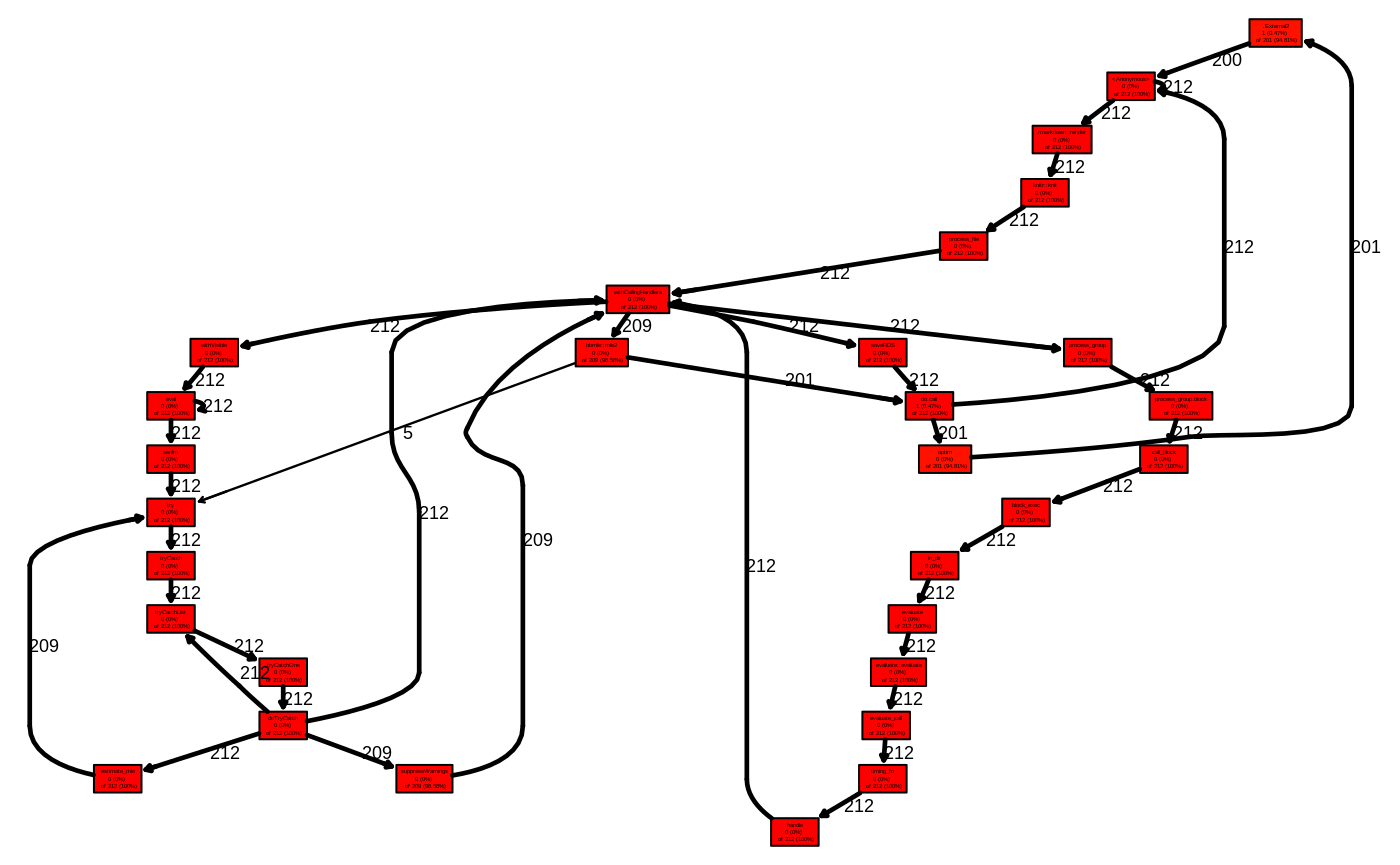
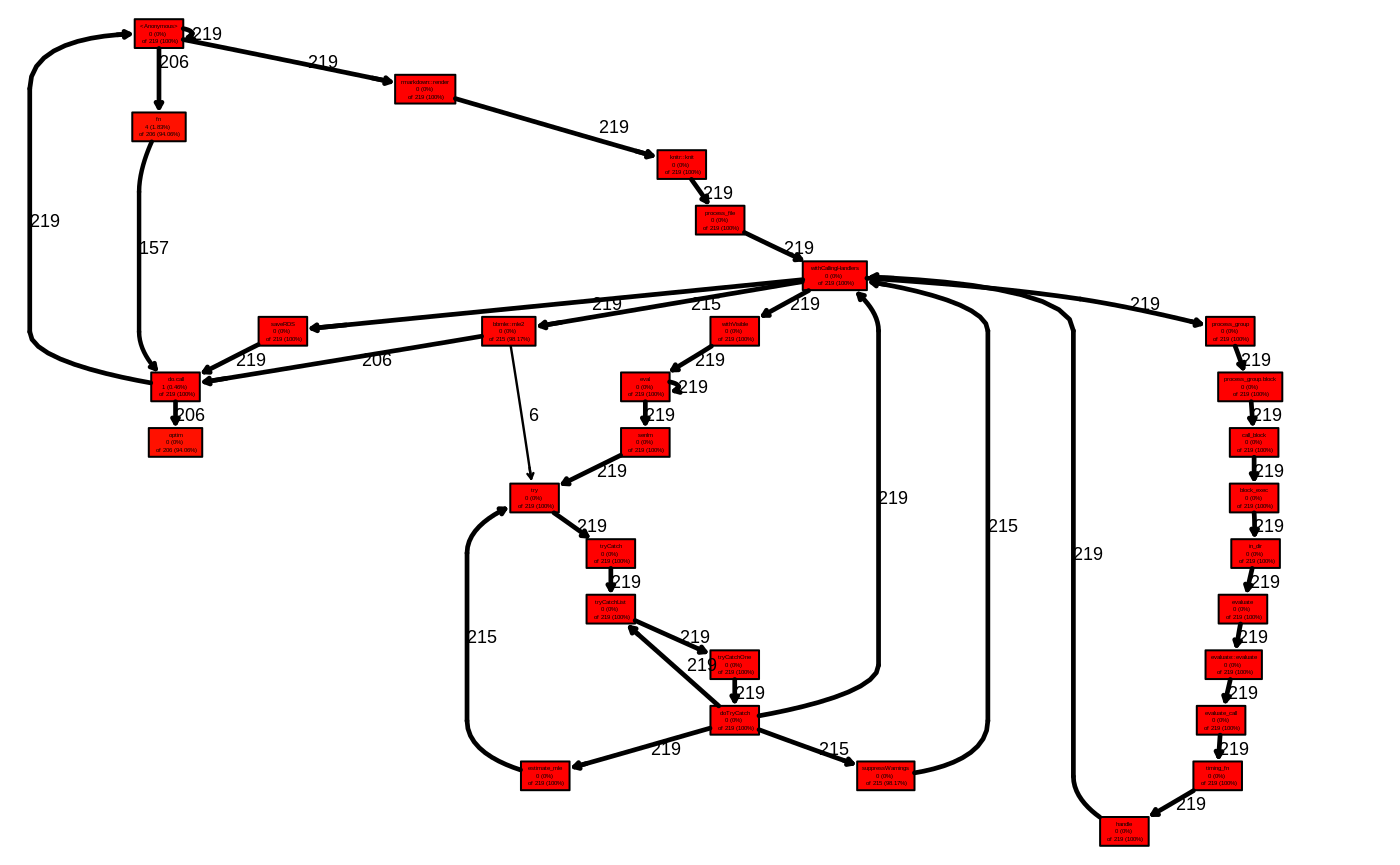
Built site for senlm: 0.1@8959eca

diff --git a/articles/performance_analysis.html b/articles/performance_analysis.html
@@ -140,64 +140,59 @@
 <a class="sourceLine" id="cb2-4" data-line-number="4">## --- Summarise the Profiling Data --- #</a>
 <a class="sourceLine" id="cb2-5" data-line-number="5"><span class="kw"><a href="https://rdrr.io/pkg/proftools/man/summaries.html">pathSummary</a></span>(pd)</a>
 <a class="sourceLine" id="cb2-6" data-line-number="6"><span class="co">#&gt;                                                    total.pct</span></a>
-<a class="sourceLine" id="cb2-7" data-line-number="7"><span class="co">#&gt; ...  fn -&gt; do.call -&gt; minuslogl -&gt; NLL.discrete        26.42</span></a>
-<a class="sourceLine" id="cb2-8" data-line-number="8"><span class="co">#&gt; ...  NLL.discrete -&gt; do.call -&gt; mu_gaussian             8.96</span></a>
-<a class="sourceLine" id="cb2-9" data-line-number="9"><span class="co">#&gt; ...  minuslogl -&gt; NLL.discrete -&gt; make_bounded          7.55</span></a>
-<a class="sourceLine" id="cb2-10" data-line-number="10"><span class="co">#&gt; ...  check_par_valid -&gt; make_bounded                    7.55</span></a>
-<a class="sourceLine" id="cb2-11" data-line-number="11"><span class="co">#&gt; ...  NLL.discrete -&gt; NLL.negbin -&gt; lfactorial           5.66</span></a>
-<a class="sourceLine" id="cb2-12" data-line-number="12"><span class="co">#&gt; ...  optim -&gt; .External2 -&gt; &lt;Anonymous&gt; -&gt; fn           4.72</span></a>
-<a class="sourceLine" id="cb2-13" data-line-number="13"><span class="co">#&gt; ...  minuslogl -&gt; NLL.discrete -&gt; NLL.negbin            4.72</span></a>
-<a class="sourceLine" id="cb2-14" data-line-number="14"><span class="co">#&gt; ...  minuslogl -&gt; NLL.discrete -&gt; check_par_valid       3.30</span></a>
-<a class="sourceLine" id="cb2-15" data-line-number="15"><span class="co">#&gt; ...  relist2 -&gt; sapply -&gt; simplify2array -&gt; unique      2.36</span></a>
-<a class="sourceLine" id="cb2-16" data-line-number="16"><span class="co">#&gt; ...  fn -&gt; do.call -&gt; namedrop -&gt; seq                   2.36</span></a>
-<a class="sourceLine" id="cb2-17" data-line-number="17"><span class="co">#&gt; ...  do.call -&gt; mu_gaussian -&gt; as.list                  2.36</span></a>
-<a class="sourceLine" id="cb2-18" data-line-number="18"><span class="co">#&gt; ...  .External2 -&gt; &lt;Anonymous&gt; -&gt; fn -&gt; relist2         1.89</span></a>
-<a class="sourceLine" id="cb2-19" data-line-number="19"><span class="co">#&gt; ...  .External2 -&gt; &lt;Anonymous&gt; -&gt; fn -&gt; order           1.89</span></a>
-<a class="sourceLine" id="cb2-20" data-line-number="20"><span class="co">#&gt; ...  NLL.discrete -&gt; check_par_valid -&gt; $               1.42</span></a>
-<a class="sourceLine" id="cb2-21" data-line-number="21"><span class="co">#&gt; ...  minuslogl -&gt; NLL.discrete -&gt; do.call -&gt; paste      1.42</span></a>
-<a class="sourceLine" id="cb2-22" data-line-number="22"><span class="co">#&gt; ...  NLL.discrete -&gt; NLL.negbin -&gt; sum                  0.94</span></a>
-<a class="sourceLine" id="cb2-23" data-line-number="23"><span class="co">#&gt; ...  fn -&gt; do.call -&gt; namedrop -&gt; unique                0.94</span></a>
-<a class="sourceLine" id="cb2-24" data-line-number="24"><span class="co">#&gt; ...  &lt;Anonymous&gt; -&gt; fn -&gt; do.call -&gt; namedrop           0.94</span></a>
-<a class="sourceLine" id="cb2-25" data-line-number="25"><span class="co">#&gt; ...  unique -&gt; unique.default -&gt; is.factor              0.47</span></a>
-<a class="sourceLine" id="cb2-26" data-line-number="26"><span class="co">#&gt; ...  simplify2array -&gt; unique -&gt; unique.default         0.47</span></a>
-<a class="sourceLine" id="cb2-27" data-line-number="27"><span class="co">#&gt; ...  sapply -&gt; simplify2array -&gt; unique -&gt; lengths      0.47</span></a>
-<a class="sourceLine" id="cb2-28" data-line-number="28"><span class="co">#&gt; ...  relist2 -&gt; sapply -&gt; match.fun -&gt; is.function      0.47</span></a>
-<a class="sourceLine" id="cb2-29" data-line-number="29"><span class="co">#&gt; ...  objective -&gt; relist2 -&gt; sapply -&gt; lapply           0.47</span></a>
-<a class="sourceLine" id="cb2-30" data-line-number="30"><span class="co">#&gt; ...  NLL.discrete -&gt; check_par_valid -&gt; is.nan          0.47</span></a>
-<a class="sourceLine" id="cb2-31" data-line-number="31"><span class="co">#&gt; ...  namedrop -&gt; unique -&gt; unique.default               0.47</span></a>
-<a class="sourceLine" id="cb2-32" data-line-number="32"><span class="co">#&gt; ...  mu_gaussian -&gt; as.list -&gt; as.list.default          0.47</span></a>
-<a class="sourceLine" id="cb2-33" data-line-number="33"><span class="co">#&gt; ...  minuslogl -&gt; NLL.discrete -&gt; do.call               0.47</span></a>
-<a class="sourceLine" id="cb2-34" data-line-number="34"><span class="co">#&gt; ...  getNamespaceExports -&gt; names                       0.47</span></a>
-<a class="sourceLine" id="cb2-35" data-line-number="35"><span class="co">#&gt; ...  func -&gt; relist2 -&gt; sapply -&gt; lapply                0.47</span></a>
-<a class="sourceLine" id="cb2-36" data-line-number="36"><span class="co">#&gt; ...  func -&gt; do.call -&gt; minuslogl -&gt; NLL.discrete       0.47</span></a>
-<a class="sourceLine" id="cb2-37" data-line-number="37"><span class="co">#&gt; ...  fn -&gt; relist2 -&gt; sapply -&gt; simplify2array          0.47</span></a>
-<a class="sourceLine" id="cb2-38" data-line-number="38"><span class="co">#&gt; ...  fn -&gt; relist2 -&gt; sapply -&gt; lapply                  0.47</span></a>
-<a class="sourceLine" id="cb2-39" data-line-number="39"><span class="co">#&gt; ...  fn -&gt; relist2 -&gt; sapply -&gt; isFALSE -&gt; length       0.47</span></a>
-<a class="sourceLine" id="cb2-40" data-line-number="40"><span class="co">#&gt; ...  fn -&gt; relist2 -&gt; sapply -&gt; isFALSE                 0.47</span></a>
-<a class="sourceLine" id="cb2-41" data-line-number="41"><span class="co">#&gt; ...  fn -&gt; namedrop -&gt; seq -&gt; seq.default               0.47</span></a>
-<a class="sourceLine" id="cb2-42" data-line-number="42"><span class="co">#&gt; ...  do.call -&gt; namedrop -&gt; seq -&gt; seq.default          0.47</span></a>
-<a class="sourceLine" id="cb2-43" data-line-number="43"><span class="co">#&gt; ...  do.call -&gt; minuslogl -&gt; NLL.discrete -&gt; sum        0.47</span></a>
-<a class="sourceLine" id="cb2-44" data-line-number="44"><span class="co">#&gt; ...  do.call -&gt; minuslogl -&gt; NLL.discrete -&gt; $          0.47</span></a>
-<a class="sourceLine" id="cb2-45" data-line-number="45"><span class="co">#&gt; ...  bbmle::mle2 -&gt; do.call -&gt; optim -&gt; .External2      0.47</span></a>
-<a class="sourceLine" id="cb2-46" data-line-number="46"><span class="co">#&gt; ...  &lt;Anonymous&gt; -&gt; lazyLoadDBfetch                     0.47</span></a>
-<a class="sourceLine" id="cb2-47" data-line-number="47"><span class="co">#&gt; ...  &lt;Anonymous&gt; -&gt; fn -&gt; relist2 -&gt; sapply             0.47</span></a>
-<a class="sourceLine" id="cb2-48" data-line-number="48"><span class="co">#&gt; ...  &lt;Anonymous&gt; -&gt; fn -&gt; relist2 -&gt; as.list            0.47</span></a>
-<a class="sourceLine" id="cb2-49" data-line-number="49"><span class="co">#&gt; ...  &lt;Anonymous&gt; -&gt; fn -&gt; relist2 -&gt; all                0.47</span></a>
-<a class="sourceLine" id="cb2-50" data-line-number="50"><span class="co">#&gt; ...  &lt;Anonymous&gt; -&gt; fn -&gt; order -&gt; as.logical           0.47</span></a>
-<a class="sourceLine" id="cb2-51" data-line-number="51"><span class="co">#&gt; ...  &lt;Anonymous&gt; -&gt; fn -&gt; do.call -&gt; parent.frame       0.47</span></a>
-<a class="sourceLine" id="cb2-52" data-line-number="52"><span class="co">#&gt; ...  &lt;Anonymous&gt; -&gt; fn -&gt; do.call -&gt; minuslogl          0.47</span></a>
-<a class="sourceLine" id="cb2-53" data-line-number="53"><span class="co">#&gt; ...  .mergeMethodsTable -&gt; environment                  0.47</span></a>
-<a class="sourceLine" id="cb2-54" data-line-number="54"><span class="co">#&gt; ...  .External2 -&gt; &lt;Anonymous&gt; -&gt; fn -&gt; namedrop        0.47</span></a>
-<a class="sourceLine" id="cb2-55" data-line-number="55"><span class="co">#&gt; ...  .External2 -&gt; &lt;Anonymous&gt; -&gt; fn -&gt; list            0.47</span></a>
-<a class="sourceLine" id="cb2-56" data-line-number="56">##funSummary(pd)</a>
-<a class="sourceLine" id="cb2-57" data-line-number="57">##callSummary(pd)</a>
-<a class="sourceLine" id="cb2-58" data-line-number="58">##hotPaths(pd)</a>
-<a class="sourceLine" id="cb2-59" data-line-number="59">##flatProfile(pd)</a>
-<a class="sourceLine" id="cb2-60" data-line-number="60"></a>
-<a class="sourceLine" id="cb2-61" data-line-number="61">## --- Annotate Sourcecode with Profiling Data -- #</a>
-<a class="sourceLine" id="cb2-62" data-line-number="62"><span class="co"># annotateSource is very useful, but won't work within a vignette.</span></a>
-<a class="sourceLine" id="cb2-63" data-line-number="63"><span class="co">#annotateSource(pd, show = TRUE)</span></a>
-<a class="sourceLine" id="cb2-64" data-line-number="64">##srcSummary(pd)</a></code></pre></div>
+<a class="sourceLine" id="cb2-7" data-line-number="7"><span class="co">#&gt; ...  fn -&gt; do.call -&gt; minuslogl -&gt; NLL.discrete        23.29</span></a>
+<a class="sourceLine" id="cb2-8" data-line-number="8"><span class="co">#&gt; ...  check_par_valid -&gt; make_bounded                   10.05</span></a>
+<a class="sourceLine" id="cb2-9" data-line-number="9"><span class="co">#&gt; ...  NLL.discrete -&gt; do.call -&gt; mu_gaussian             9.13</span></a>
+<a class="sourceLine" id="cb2-10" data-line-number="10"><span class="co">#&gt; ...  NLL.discrete -&gt; NLL.negbin -&gt; lfactorial           6.85</span></a>
+<a class="sourceLine" id="cb2-11" data-line-number="11"><span class="co">#&gt; ...  minuslogl -&gt; NLL.discrete -&gt; NLL.negbin            6.85</span></a>
+<a class="sourceLine" id="cb2-12" data-line-number="12"><span class="co">#&gt; ...  minuslogl -&gt; NLL.discrete -&gt; make_bounded          5.02</span></a>
+<a class="sourceLine" id="cb2-13" data-line-number="13"><span class="co">#&gt; ...  fn -&gt; relist2 -&gt; sapply -&gt; lapply                  5.02</span></a>
+<a class="sourceLine" id="cb2-14" data-line-number="14"><span class="co">#&gt; ...  minuslogl -&gt; NLL.discrete -&gt; check_par_valid       3.65</span></a>
+<a class="sourceLine" id="cb2-15" data-line-number="15"><span class="co">#&gt; ...  simplify2array -&gt; unique -&gt; unique.default         2.28</span></a>
+<a class="sourceLine" id="cb2-16" data-line-number="16"><span class="co">#&gt; ...  relist2 -&gt; sapply -&gt; simplify2array -&gt; unlist      2.28</span></a>
+<a class="sourceLine" id="cb2-17" data-line-number="17"><span class="co">#&gt; ...  relist2 -&gt; sapply -&gt; simplify2array -&gt; unique      2.28</span></a>
+<a class="sourceLine" id="cb2-18" data-line-number="18"><span class="co">#&gt; ...  do.call -&gt; mu_gaussian -&gt; as.list                  2.28</span></a>
+<a class="sourceLine" id="cb2-19" data-line-number="19"><span class="co">#&gt; ...  optim -&gt; .External2 -&gt; &lt;Anonymous&gt; -&gt; fn           1.83</span></a>
+<a class="sourceLine" id="cb2-20" data-line-number="20"><span class="co">#&gt; ...  do.call -&gt; minuslogl -&gt; NLL.discrete -&gt; $          1.37</span></a>
+<a class="sourceLine" id="cb2-21" data-line-number="21"><span class="co">#&gt; ...  &lt;Anonymous&gt; -&gt; fn -&gt; namedrop -&gt; seq               1.37</span></a>
+<a class="sourceLine" id="cb2-22" data-line-number="22"><span class="co">#&gt; ...  NLL.discrete -&gt; NLL.negbin -&gt; sum                  0.91</span></a>
+<a class="sourceLine" id="cb2-23" data-line-number="23"><span class="co">#&gt; ...  fn -&gt; relist2 -&gt; sapply -&gt; lapply -&gt; FUN           0.91</span></a>
+<a class="sourceLine" id="cb2-24" data-line-number="24"><span class="co">#&gt; ...  fn -&gt; namedrop -&gt; seq -&gt; seq.default               0.91</span></a>
+<a class="sourceLine" id="cb2-25" data-line-number="25"><span class="co">#&gt; ...  fn -&gt; do.call -&gt; namedrop -&gt; seq                   0.91</span></a>
+<a class="sourceLine" id="cb2-26" data-line-number="26"><span class="co">#&gt; ...  &lt;Anonymous&gt; -&gt; fn -&gt; relist2 -&gt; sapply             0.91</span></a>
+<a class="sourceLine" id="cb2-27" data-line-number="27"><span class="co">#&gt; ...  &lt;Anonymous&gt; -&gt; fn -&gt; do.call -&gt; minuslogl          0.91</span></a>
+<a class="sourceLine" id="cb2-28" data-line-number="28"><span class="co">#&gt; ...  .External2 -&gt; &lt;Anonymous&gt; -&gt; fn -&gt; relist2         0.91</span></a>
+<a class="sourceLine" id="cb2-29" data-line-number="29"><span class="co">#&gt; ...  unique -&gt; unique.default -&gt; is.factor              0.46</span></a>
+<a class="sourceLine" id="cb2-30" data-line-number="30"><span class="co">#&gt; ...  sapply -&gt; simplify2array -&gt; unique -&gt; lengths      0.46</span></a>
+<a class="sourceLine" id="cb2-31" data-line-number="31"><span class="co">#&gt; ...  sapply -&gt; lapply -&gt; FUN -&gt; is.expression           0.46</span></a>
+<a class="sourceLine" id="cb2-32" data-line-number="32"><span class="co">#&gt; ...  optim -&gt; .External2 -&gt; &lt;Anonymous&gt; -&gt; fn -&gt; c      0.46</span></a>
+<a class="sourceLine" id="cb2-33" data-line-number="33"><span class="co">#&gt; ...  NLL.discrete -&gt; check_par_valid -&gt; is.na           0.46</span></a>
+<a class="sourceLine" id="cb2-34" data-line-number="34"><span class="co">#&gt; ...  NLL.discrete -&gt; check_par_valid -&gt; is.finite       0.46</span></a>
+<a class="sourceLine" id="cb2-35" data-line-number="35"><span class="co">#&gt; ...  NLL.discrete -&gt; check_par_valid -&gt; $               0.46</span></a>
+<a class="sourceLine" id="cb2-36" data-line-number="36"><span class="co">#&gt; ...  mu_gaussian -&gt; as.list -&gt; as.list.default          0.46</span></a>
+<a class="sourceLine" id="cb2-37" data-line-number="37"><span class="co">#&gt; ...  minuslogl -&gt; NLL.discrete -&gt; do.call -&gt; paste      0.46</span></a>
+<a class="sourceLine" id="cb2-38" data-line-number="38"><span class="co">#&gt; ...  minuslogl -&gt; NLL.discrete -&gt; do.call               0.46</span></a>
+<a class="sourceLine" id="cb2-39" data-line-number="39"><span class="co">#&gt; ...  lazyLoadDBfetch -&gt; &lt;Anonymous&gt; -&gt; list2env         0.46</span></a>
+<a class="sourceLine" id="cb2-40" data-line-number="40"><span class="co">#&gt; ...  lazyLoad -&gt; lazyLoadDBexec -&gt; list2env             0.46</span></a>
+<a class="sourceLine" id="cb2-41" data-line-number="41"><span class="co">#&gt; ...  implicitGeneric -&gt; makeGeneric -&gt; @&lt;-              0.46</span></a>
+<a class="sourceLine" id="cb2-42" data-line-number="42"><span class="co">#&gt; ...  getNamespace -&gt; loadNamespace -&gt; readRDS           0.46</span></a>
+<a class="sourceLine" id="cb2-43" data-line-number="43"><span class="co">#&gt; ...  genD.default -&gt; func -&gt; relist2 -&gt; as.list         0.46</span></a>
+<a class="sourceLine" id="cb2-44" data-line-number="44"><span class="co">#&gt; ...  fn -&gt; relist2 -&gt; sapply -&gt; simplify2array          0.46</span></a>
+<a class="sourceLine" id="cb2-45" data-line-number="45"><span class="co">#&gt; ...  fn -&gt; relist2 -&gt; sapply -&gt; isFALSE                 0.46</span></a>
+<a class="sourceLine" id="cb2-46" data-line-number="46"><span class="co">#&gt; ...  fn -&gt; do.call -&gt; namedrop -&gt; unique                0.46</span></a>
+<a class="sourceLine" id="cb2-47" data-line-number="47"><span class="co">#&gt; ...  doTryCatch -&gt; grad -&gt; grad.default                 0.46</span></a>
+<a class="sourceLine" id="cb2-48" data-line-number="48"><span class="co">#&gt; ...  &lt;Anonymous&gt; -&gt; fn -&gt; relist2 -&gt; as.list            0.46</span></a>
+<a class="sourceLine" id="cb2-49" data-line-number="49"><span class="co">#&gt; ...  &lt;Anonymous&gt; -&gt; fn -&gt; order -&gt; is.numeric           0.46</span></a>
+<a class="sourceLine" id="cb2-50" data-line-number="50"><span class="co">#&gt; ...  .External2 -&gt; &lt;Anonymous&gt; -&gt; fn -&gt; unlist          0.46</span></a>
+<a class="sourceLine" id="cb2-51" data-line-number="51">##funSummary(pd)</a>
+<a class="sourceLine" id="cb2-52" data-line-number="52">##callSummary(pd)</a>
+<a class="sourceLine" id="cb2-53" data-line-number="53">##hotPaths(pd)</a>
+<a class="sourceLine" id="cb2-54" data-line-number="54">##flatProfile(pd)</a>
+<a class="sourceLine" id="cb2-55" data-line-number="55"></a>
+<a class="sourceLine" id="cb2-56" data-line-number="56">## --- Annotate Sourcecode with Profiling Data -- #</a>
+<a class="sourceLine" id="cb2-57" data-line-number="57"><span class="co"># annotateSource is very useful, but won't work within a vignette.</span></a>
+<a class="sourceLine" id="cb2-58" data-line-number="58"><span class="co">#annotateSource(pd, show = TRUE)</span></a>
+<a class="sourceLine" id="cb2-59" data-line-number="59">##srcSummary(pd)</a></code></pre></div>
   </div>
 
   <div class="col-md-3 hidden-xs hidden-sm" id="sidebar">

diff --git a/reference/simulate.senlm.html b/reference/simulate.senlm.html
@@ -1,0 +1,208 @@
+<!-- Generated by pkgdown: do not edit by hand -->
+<!DOCTYPE html>
+<html lang="en">
+  <head>
+  <meta charset="utf-8">
+<meta http-equiv="X-UA-Compatible" content="IE=edge">
+<meta name="viewport" content="width=device-width, initial-scale=1.0">
+
+<title>Simulate data from senlm model fit — simulate.senlm • senlm</title>
+
+
+<!-- jquery -->
+<script src="https://cdnjs.cloudflare.com/ajax/libs/jquery/3.3.1/jquery.min.js" integrity="sha256-FgpCb/KJQlLNfOu91ta32o/NMZxltwRo8QtmkMRdAu8=" crossorigin="anonymous"></script>
+<!-- Bootstrap -->
+<link href="https://cdnjs.cloudflare.com/ajax/libs/bootswatch/3.3.7/cosmo/bootstrap.min.css" rel="stylesheet" crossorigin="anonymous" />
+
+
+<script src="https://cdnjs.cloudflare.com/ajax/libs/twitter-bootstrap/3.3.7/js/bootstrap.min.js" integrity="sha256-U5ZEeKfGNOja007MMD3YBI0A3OSZOQbeG6z2f2Y0hu8=" crossorigin="anonymous"></script>
+
+<!-- Font Awesome icons -->
+<link rel="stylesheet" href="https://cdnjs.cloudflare.com/ajax/libs/font-awesome/5.7.1/css/all.min.css" integrity="sha256-nAmazAk6vS34Xqo0BSrTb+abbtFlgsFK7NKSi6o7Y78=" crossorigin="anonymous" />
+<link rel="stylesheet" href="https://cdnjs.cloudflare.com/ajax/libs/font-awesome/5.7.1/css/v4-shims.min.css" integrity="sha256-6qHlizsOWFskGlwVOKuns+D1nB6ssZrHQrNj1wGplHc=" crossorigin="anonymous" />
+
+<!-- clipboard.js -->
+<script src="https://cdnjs.cloudflare.com/ajax/libs/clipboard.js/2.0.4/clipboard.min.js" integrity="sha256-FiZwavyI2V6+EXO1U+xzLG3IKldpiTFf3153ea9zikQ=" crossorigin="anonymous"></script>
+
+<!-- headroom.js -->
+<script src="https://cdnjs.cloudflare.com/ajax/libs/headroom/0.9.4/headroom.min.js" integrity="sha256-DJFC1kqIhelURkuza0AvYal5RxMtpzLjFhsnVIeuk+U=" crossorigin="anonymous"></script>
+<script src="https://cdnjs.cloudflare.com/ajax/libs/headroom/0.9.4/jQuery.headroom.min.js" integrity="sha256-ZX/yNShbjqsohH1k95liqY9Gd8uOiE1S4vZc+9KQ1K4=" crossorigin="anonymous"></script>
+
+<!-- pkgdown -->
+<link href="../pkgdown.css" rel="stylesheet">
+<script src="../pkgdown.js"></script>
+
+
+
+
+<meta property="og:title" content="Simulate data from senlm model fit — simulate.senlm" />
+<meta property="og:description" content="Simulate from senlm model fit, nsim times, using x values in newdata, or actual x values." />
+<meta name="twitter:card" content="summary" />
+
+
+
+
+<!-- mathjax -->
+<script src="https://cdnjs.cloudflare.com/ajax/libs/mathjax/2.7.5/MathJax.js" integrity="sha256-nvJJv9wWKEm88qvoQl9ekL2J+k/RWIsaSScxxlsrv8k=" crossorigin="anonymous"></script>
+<script src="https://cdnjs.cloudflare.com/ajax/libs/mathjax/2.7.5/config/TeX-AMS-MML_HTMLorMML.js" integrity="sha256-84DKXVJXs0/F8OTMzX4UR909+jtl4G7SPypPavF+GfA=" crossorigin="anonymous"></script>
+
+<!--[if lt IE 9]>
+<script src="https://oss.maxcdn.com/html5shiv/3.7.3/html5shiv.min.js"></script>
+<script src="https://oss.maxcdn.com/respond/1.4.2/respond.min.js"></script>
+<![endif]-->
+
+
+
+  </head>
+
+  <body>
+    <div class="container template-reference-topic">
+      <header>
+      <div class="navbar navbar-default navbar-fixed-top" role="navigation">
+  <div class="container">
+    <div class="navbar-header">
+      <button type="button" class="navbar-toggle collapsed" data-toggle="collapse" data-target="#navbar" aria-expanded="false">
+        <span class="sr-only">Toggle navigation</span>
+        <span class="icon-bar"></span>
+        <span class="icon-bar"></span>
+        <span class="icon-bar"></span>
+      </button>
+      <span class="navbar-brand">
+        <a class="navbar-link" href="../index.html">senlm</a>
+        <span class="version label label-default" data-toggle="tooltip" data-placement="bottom" title="Released version">0.1</span>
+      </span>
+    </div>
+
+    <div id="navbar" class="navbar-collapse collapse">
+      <ul class="nav navbar-nav">
+        <li>
+  <a href="../index.html">
+    <span class="fas fa fas fa-home fa-lg"></span>
+     
+  </a>
+</li>
+<li>
+  <a href="../articles/senlm.html">Get started</a>
+</li>
+<li>
+  <a href="../reference/index.html">Reference</a>
+</li>
+<li class="dropdown">
+  <a href="#" class="dropdown-toggle" data-toggle="dropdown" role="button" aria-expanded="false">
+    Articles
+     
+    <span class="caret"></span>
+  </a>
+  <ul class="dropdown-menu" role="menu">
+    <li>
+      <a href="../articles/performance_analysis.html">performance_analysis</a>
+    </li>
+  </ul>
+</li>
+<li>
+  <a href="../news/index.html">Changelog</a>
+</li>
+      </ul>
+      <ul class="nav navbar-nav navbar-right">
+        <li>
+  <a href="https://github.com/PRIMER-e/senlm">
+    <span class="fab fa fab fa-github fa-lg"></span>
+     
+  </a>
+</li>
+      </ul>
+      
+    </div><!--/.nav-collapse -->
+  </div><!--/.container -->
+</div><!--/.navbar -->
+
+      
+
+      </header>
+
+<div class="row">
+  <div class="col-md-9 contents">
+    <div class="page-header">
+    <h1>Simulate data from senlm model fit</h1>
+    <small class="dont-index">Source: <a href='https://github.com/PRIMER-e/senlm/blob/master/R/MLE.R'><code>R/MLE.R</code></a></small>
+    <div class="hidden name"><code>simulate.senlm.Rd</code></div>
+    </div>
+
+    <div class="ref-description">
+    <p>Simulate from senlm model fit, nsim times, using x values in newdata, or actual x values.</p>
+    </div>
+
+    <pre class="usage"><span class='co'># S3 method for senlm</span>
+<span class='fu'><a href='https://rdrr.io/r/stats/simulate.html'>simulate</a></span>(<span class='no'>object</span>, <span class='kw'>nsim</span> <span class='kw'>=</span> <span class='fl'>1</span>, <span class='kw'>seed</span> <span class='kw'>=</span> <span class='kw'>NULL</span>,
+  <span class='kw'>newdata</span> <span class='kw'>=</span> <span class='kw'>NULL</span>, <span class='no'>...</span>)</pre>
+
+    <h2 class="hasAnchor" id="arguments"><a class="anchor" href="#arguments"></a>Arguments</h2>
+    <table class="ref-arguments">
+    <colgroup><col class="name" /><col class="desc" /></colgroup>
+    <tr>
+      <th>object</th>
+      <td><p>Model fit.</p></td>
+    </tr>
+    <tr>
+      <th>nsim</th>
+      <td><p>Number of simulations to perform. Default value of one.</p></td>
+    </tr>
+    <tr>
+      <th>seed</th>
+      <td><p>Random number seed.</p></td>
+    </tr>
+    <tr>
+      <th>newdata</th>
+      <td><p>x values to predict y values from. Optional, data values used by default.</p></td>
+    </tr>
+    <tr>
+      <th>...</th>
+      <td><p>additional optional arguments.</p></td>
+    </tr>
+    </table>
+
+    <h2 class="hasAnchor" id="value"><a class="anchor" href="#value"></a>Value</h2>
+
+    <p>Data frame of predicted y values.</p>
+
+    <h2 class="hasAnchor" id="examples"><a class="anchor" href="#examples"></a>Examples</h2>
+    <pre class="examples"><div class='input'>
+<span class='kw'>if</span> (<span class='fl'>FALSE</span>) {
+
+<span class='co'>## Simulate data</span>
+<span class='no'>Model</span> <span class='kw'>&lt;-</span> <span class='fu'><a href='set_models.html'>set_models</a></span> (<span class='kw'>mean_fun</span><span class='kw'>=</span><span class='st'>"gaussian"</span>, <span class='kw'>err_dist</span><span class='kw'>=</span><span class='fu'><a href='https://rdrr.io/r/base/c.html'>c</a></span>(<span class='st'>"zip"</span>))
+<span class='no'>Fit</span> <span class='kw'>&lt;-</span> <span class='fu'><a href='senlm.html'>senlm</a></span> (<span class='kw'>model</span><span class='kw'>=</span><span class='no'>Model</span>, <span class='kw'>data</span><span class='kw'>=</span><span class='no'>haul</span>, <span class='kw'>xvar</span><span class='kw'>=</span><span class='st'>"x_depth"</span>, <span class='kw'>yvar</span><span class='kw'>=</span><span class='st'>"y_Sebastolobus.altivelis"</span>)
+<span class='fu'>sim</span>(<span class='no'>Fit</span>, <span class='kw'>nsim</span><span class='kw'>=</span><span class='fl'>2</span>, <span class='kw'>newdata</span><span class='kw'>=</span><span class='fu'><a href='https://rdrr.io/r/base/c.html'>c</a></span>(<span class='fl'>400</span>,<span class='fl'>600</span>,<span class='fl'>800</span>))
+}</div></pre>
+  </div>
+  <div class="col-md-3 hidden-xs hidden-sm" id="sidebar">
+    <h2>Contents</h2>
+    <ul class="nav nav-pills nav-stacked">
+      <li><a href="#arguments">Arguments</a></li>
+      <li><a href="#value">Value</a></li>
+      <li><a href="#examples">Examples</a></li>
+    </ul>
+
+  </div>
+</div>
+
+
+      <footer>
+      <div class="copyright">
+  <p>Developed by Daniel Walsh, Marti Anderson, Andrew Punnett, Nurudeen Adegoke.</p>
+</div>
+
+<div class="pkgdown">
+  <p>Site built with <a href="https://pkgdown.r-lib.org/">pkgdown</a> 1.4.1.</p>
+</div>
+
+      </footer>
+   </div>
+
+  
+
+
+  </body>
+</html>
+
+

diff --git a/articles/senlm.html b/articles/senlm.html
@@ -1074,7 +1074,7 @@ P(Y_i=y_i \mid \theta_M, ~\theta_E, ~\theta_C, ~x_i)
 <a class="sourceLine" id="cb36-6" data-line-number="6"></a>
 <a class="sourceLine" id="cb36-7" data-line-number="7"><span class="op">$</span>theta</a>
 <a class="sourceLine" id="cb36-8" data-line-number="8">          H           m           s          pi </a>
-<a class="sourceLine" id="cb36-9" data-line-number="9"><span class="fl">817.5307976</span> <span class="fl">917.8020633</span> <span class="fl">225.5627417</span>   <span class="fl">0.5954262</span> </a>
+<a class="sourceLine" id="cb36-9" data-line-number="9"><span class="fl">817.5307558</span> <span class="fl">917.8020557</span> <span class="fl">225.5627482</span>   <span class="fl">0.5954255</span> </a>
 <a class="sourceLine" id="cb36-10" data-line-number="10"></a>
 <a class="sourceLine" id="cb36-11" data-line-number="11"><span class="op">$</span>IC</a>
 <a class="sourceLine" id="cb36-12" data-line-number="12">    npar      nll      AIC     AICc      BIC </a>

diff --git a/reference/index.html b/reference/index.html
@@ -282,7 +282,7 @@
       </tr><tr>
         
         <td>
-          <p><code><a href="sim.html">sim()</a></code> </p>
+          <p><code><a href="simulate.senlm.html">simulate(<i>&lt;senlm&gt;</i>)</a></code> </p>
         </td>
         <td><p>Simulate data from senlm model fit</p></td>
       </tr><tr>
